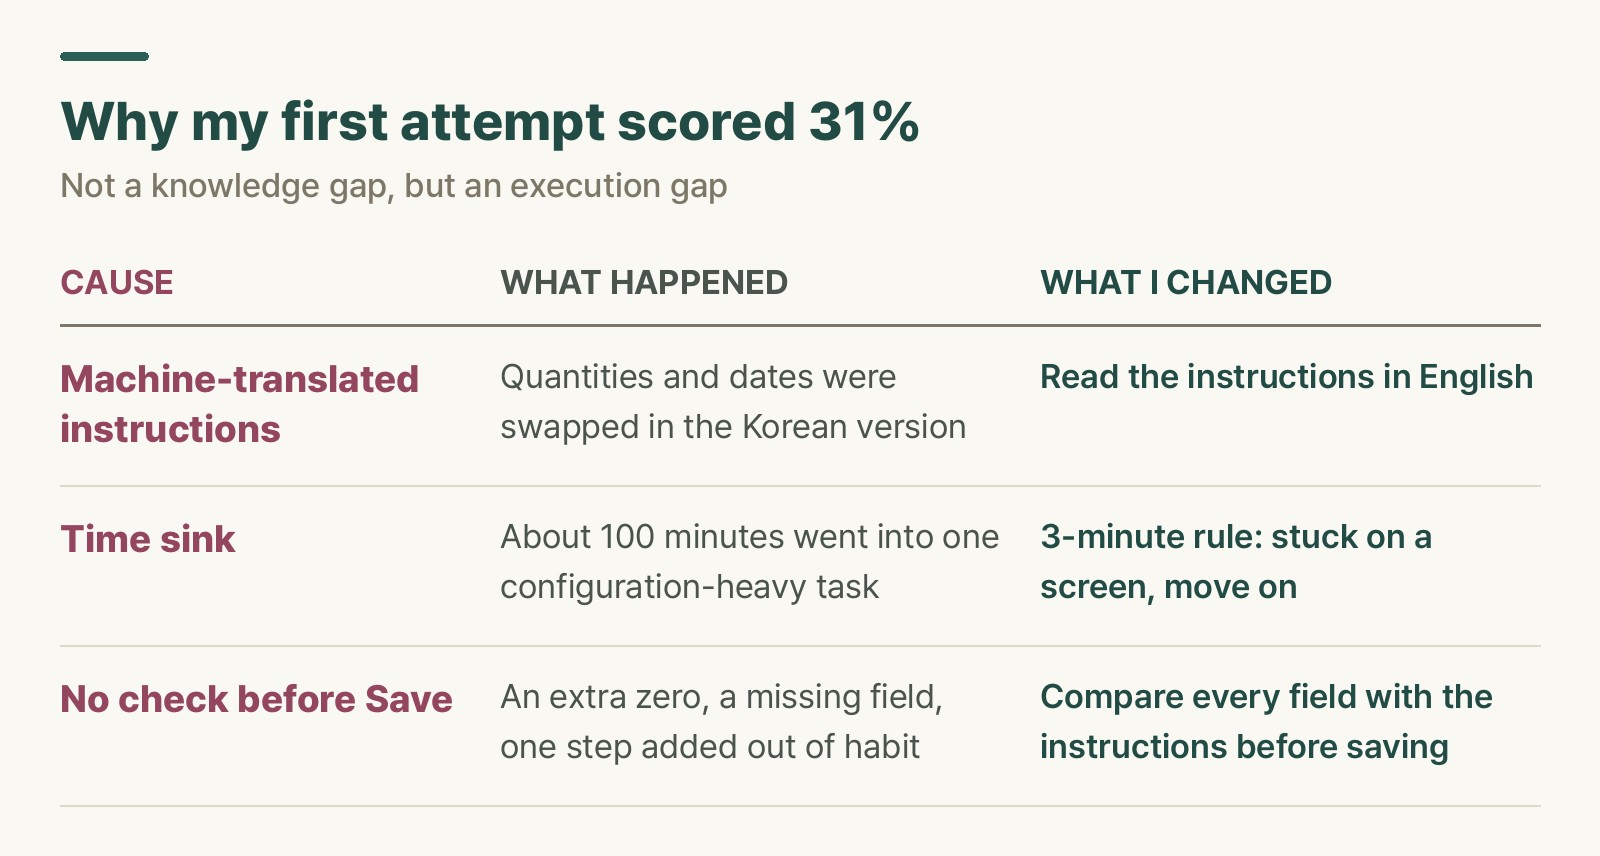
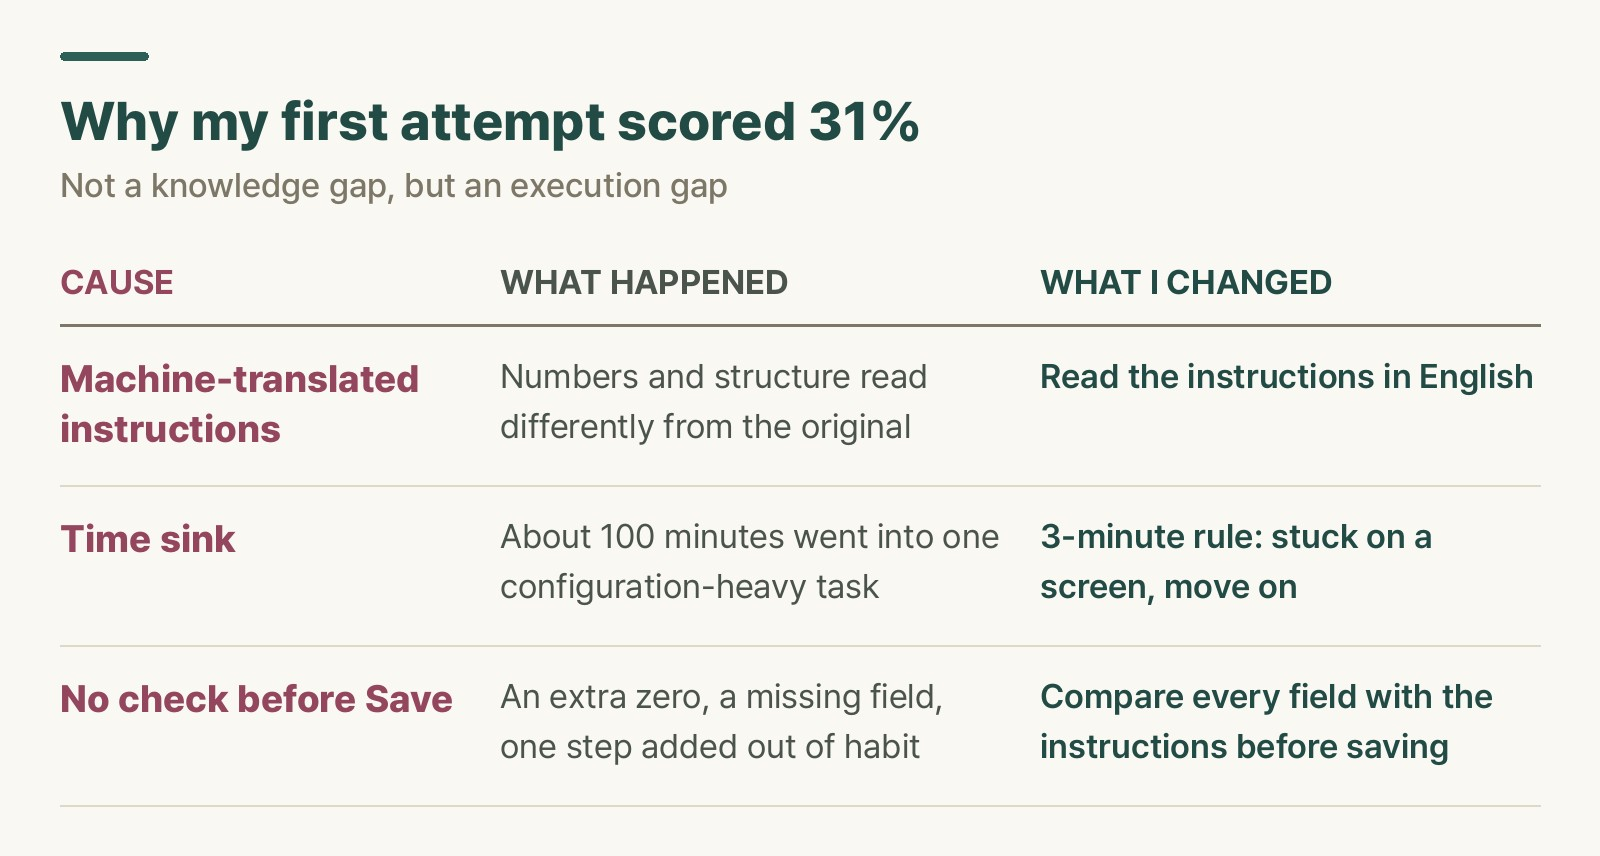
2·3편: 시험 문항 노출로 읽힐 표현 일반화, 응시자 동의서 안내 추가, 작업 메모
Claude-Session: https://claude.ai/code/session_013sML9pAEqnrmzvpCSp2NBT

Changed region(s): [[0.3125, 0.486, 0.625, 0.5164], [0.3125, 0.4252, 0.5938, 0.4556]]

diff --git a/scripts/diagrams/gen_mm_c_ts452.py b/scripts/diagrams/gen_mm_c_ts452.py
@@ -60,7 +60,7 @@ T_2_01 = {
         "sub": "몰라서가 아니라, 해내지 못해서",
         "head": ("원인", "무슨 일이 있었나", "그 뒤로 바꾼 것"),
         "rows": [
-            ("기계번역 지침", "한국어 지침에서 수량과 날짜가 뒤바뀌어 있었다", "지침은 영어로 읽는다"),
+            ("기계번역 지침", "번역된 숫자와 구성이 원문과 다르게 읽혔다", "지침은 영어로 읽는다"),
             ("한 과제에 쏠린 시간", "설정 비중이 큰 과제 하나에 약 100분을 썼다", "3분 룰: 한 화면에서 3분 막히면 넘어간다"),
             ("저장 전 대조 없음", "0 하나 더, 필수 필드 누락, 습관대로 한 단계 추가", "Save 전에 지침과 필드를 1:1로 대조한다"),
         ],
@@ -71,7 +71,7 @@ T_2_01 = {
         "head": ("Cause", "What happened", "What I changed"),
         "rows": [
             ("Machine-translated instructions",
-             "Quantities and dates were swapped in the Korean version",
+             "Numbers and structure read differently from the original",
              "Read the instructions in English"),
             ("Time sink",
              "About 100 minutes went into one configuration-heavy task",

diff --git a/src/content/blog/en/sap-mm-c-ts452-certification-2.md b/src/content/blog/en/sap-mm-c-ts452-certification-2.md
@@ -18,7 +18,7 @@ On September 14, 2026, I took my first **SAP MM certification, C_TS452** exam. T
 In [SAP certification exams](/en/blog/sap-exam-format) I once wrote that "if your practical skills are solid, it's realistically a 40-minute-to-1-hour exam." At least for a module I was learning for the first time, that was not true. Even on my third attempt, after plenty of practice, simply working through the tasks without getting stuck took 80–90 minutes, and with verification before submitting it took about 2 hours. This post is also that correction.
 
 > **Three-line summary**
-> - The first cause was the machine-translated Korean instructions. Sentences with swapped quantities and dates turned straight into zero points.
+> - The first cause was the machine-translated Korean instructions. Places where numbers and structure read differently from the original turned straight into zero points.
 > - I spent about 100 minutes on one configuration-heavy task and never touched the last tasks.
 > - The biggest cause was not checking against the instructions before saving. I lost more points on things I knew than on things I didn't.
 
@@ -28,10 +28,7 @@ In [SAP certification exams](/en/blog/sap-exam-format) I once wrote that "if you
 
 When the exam starts, you can choose the language of the task instructions. I naturally chose Korean, and that was my first mistake.
 
-The Korean instructions are machine-translated. Most of it is readable, but **some of the numbers and structure that the grading depends on were distorted**. When I later compared them with the English version, I found differences like these.
-
-- A sentence where the quantity and the date were swapped in translation
-- A sentence where a setup with "two items" in the original read like "one item" in Korean
+The Korean instructions are machine-translated. Most of it is readable, but **some of the numbers and structure that the grading depends on read differently from the original**. Reordered sentences made it unclear which value went where, or made a setup read differently from what the original meant. Reading the English original would have avoided that confusion.
 
 As I explained in [Part 1](/en/blog/sap-mm-c-ts452-certification-1), a SyBA exam checks whether the saved values match the instructions exactly. If the translation is wrong, you score zero even when you follow it. And because later tasks use the output of earlier ones, one wrong first step brings down everything after it. I lost an entire group of tasks this way.
 
@@ -48,10 +45,10 @@ In my first attempt I spent **about 100 minutes** on one configuration-heavy gro
 This was the most painful cause. Chased by the clock, I filled in a screen, pressed Save, and moved straight on. The results looked like this.
 
 - One extra zero typed into an amount field
-- A required field left out, creating an item of the wrong type
+- A required field left out, saving a result different from what was intended
 - One extra step, not in the instructions, done out of work habit, so a later task did not behave as intended
 
-The last one stuck with me. At work there are settings that make life easier, but the exam had built its later tasks on the assumption that those settings were not there. It is like adding a seasoning that is not in the recipe because you think the customer will like it. **It is a trap that people who know the system well fall into most easily.**
+The last one stuck with me. At work there are habits that make life easier, but the instructions assumed the process would run without that step. It is like adding a seasoning that is not in the recipe because you think the customer will like it. **It is a trap that people who know the system well fall into most easily.**
 
 ## The first attempt in numbers
 
@@ -65,14 +62,16 @@ I lost more on **things I knew but got wrong** than on things I did not know.
 
 The failure stung, but it clearly gave me something.
 
-1. **A feel for the real exam**: which areas appear in what proportion, and which screens eat up time.
-2. **The need for English**: from then on, I switched all my study material to the English courses and English instructions.
+1. **A feel for the hands-on format**: how the screens flow, how much time pressure there is, and how unforgiving it is when earlier tasks feed later ones.
+2. **The need for English**: from then on, I switched all my study to the English course material.
 3. **The need for a procedure**: one step, "check before you save," mattered more than piling up more knowledge.
 
 Here are the three causes, and what I changed afterward, on one page.
 
 ![Table of the three causes of my first SAP MM certification C_TS452 failure: machine-translated instructions fixed by reading in English, time sunk into one task fixed by a 3-minute rule, and no check before saving fixed by comparing every field before Save](/images/sap-mm-c-ts452-certification-2-01.jpg)
 *Figure 1. The causes of my 31% first attempt and what I changed afterward*
+
+> In line with the candidate agreement, this series does not cover exam questions or answer values. What I describe here are only my own mistakes and how I prepared.
 
 ## Rabbit's Takeaway
 

diff --git a/drafts/sap-mm-c-ts452/ko/sap-mm-c-ts452-certification-3.md b/drafts/sap-mm-c-ts452/ko/sap-mm-c-ts452-certification-3.md
@@ -29,19 +29,19 @@ tags: ["SAP학습자료", "SAP자격증", "SAPMM", "C_TS452", "SAP공부법"]
 - **개념 이해는 한국어로**, 하지만
 - **화면 조작, 필드명, 지침 해석은 영어로**
 
-시험 지침의 문장을 교재 연습문제와 나란히 놓아보면 표현이 거의 같은 경우가 많습니다. 반대로 **교재와 미묘하게 다른 부분(수량, 저장위치, 품목 구성)이 바로 채점 포인트**입니다. 교재대로 손에 익힌 습관값을 그대로 넣으면 틀립니다.
+교재 연습 과제를 영어로 반복하면 두 가지가 함께 길러집니다. 화면에 보이는 필드명과 지침의 단어를 바로 연결하는 눈, 그리고 **지침을 한 단어씩 끝까지 읽는 습관**입니다. 실기 시험에서는 손에 익은 값이 아니라 지금 받은 지침에 적힌 값을 넣어야 하는데, 이 습관이 없으면 익숙한 값을 무심코 입력하게 됩니다.
 
 ## C_TS452 연습을 3단계로 설계했다
 
 | 단계 | 목적 | 방식 | 통과 기준 |
 |---|---|---|---|
-| R1 화면 익히기 | 모든 유형을 한 번씩 완주 | 시간 제한 없이, 모르는 건 끝까지 파고들기 | 전부 완료 + 막힌 화면 목록 |
+| R1 화면 익히기 | 교재의 모든 연습 과제를 한 번씩 완주 | 시간 제한 없이, 모르는 건 끝까지 파고들기 | 전부 완료 + 막힌 화면 목록 |
 | R2 시간 맞추기 | 영역별 목표 시간 지키기 | 3분 룰, 저장 직전 대조 강제 | 목표 시간 이내 완주 |
-| R3 실전 리허설 | 시험 당일 절차 그대로 | 3시간 연속, 남는 시간은 전수 검증 | 시간 내 완주 + 검증 |
+| R3 실전 리허설 | 연습 과제를 3시간 분량으로 묶어 시험처럼 | 3시간 연속, 남는 시간은 전수 검증 | 시간 내 완주 + 검증 |
 
 *표 1. 연습 3단계 설계*
 
-R2에서 처음 전체 시간을 재봤을 때 **목표보다 17분 초과**했습니다. 영역별로 쪼개보니 초과분 대부분이 설정 비중이 큰 한 영역에서 나왔습니다. 그 영역만 따로 반복했고, R3에서는 **3시간 분량을 약 100분**에 끝낼 수 있게 됐습니다. 남는 시간은 전부 검증에 썼습니다.
+R2에서 처음 전체 시간을 재봤을 때 **목표보다 17분 초과**했습니다. 영역별로 쪼개보니 초과분 대부분이 제가 가장 약한 설정(Customizing) 작업에서 나왔습니다. 실무에서 직접 손댈 일이 적던 부분이라, 그 영역의 교재 과제만 따로 반복했습니다. R3에서는 연습 과제로 묶은 **3시간 분량을 약 100분**에 끝낼 수 있게 됐고, 남는 시간은 전부 검증에 썼습니다.
 
 ![SAP MM 자격증 C_TS452 1차 시험, R3 리허설, 3차 시험의 3시간 배분을 비교한 막대 그래프. 1차는 한 과제에 100분을 써 마지막 과제를 못 했고, R3는 과제 100분 뒤 남은 시간을 검증에 썼으며, 3차는 과제 약 85분과 검증 약 35분으로 2시간 만에 제출했다](/images/sap-mm-c-ts452-certification-3-01.jpg)
 *그림 1. 1차 시험, 연습 리허설, 3차 시험의 시간 배분 (분, 대략치)*
@@ -76,6 +76,8 @@ Learning Hub의 연습 시스템은 전 세계 학습자가 함께 쓰는 서버
 SyBA 시험은 인터넷 검색이 가능한, 오픈북에 가까운 성격이었습니다. 꾸준히 연습한 덕에 크게 막힌 곳은 없었지만, 메뉴 경로가 헷갈릴 때는 공개된 자료를 찾아보기도 했습니다.
 
 다만 AI 도구나 화면 캡처는 이야기가 다릅니다. Reddit 같은 커뮤니티에서도 허용 여부에 대한 의견이 갈리고, 화면 캡처가 감지된다는 이야기도 있습니다. 이 시험은 "스스로 시스템을 다룰 수 있는가"를 확인하는 자리인 만큼, **AI의 도움을 받는 건 사실상 허용되지 않는다고 보는 게 안전**합니다. 응시 전에 응시자 동의서와 SAP 공식 안내에서 허용 범위를 직접 확인하세요. 시험장에서 끝까지 기댈 수 있는 건, 연습으로 손에 익힌 절차뿐입니다.
+
+> 이 연재는 응시자 동의서에 따라 시험 문항 내용과 정답 값은 다루지 않습니다. 연습은 모두 Learning Hub 교재의 연습 과제로 했고, 여기 적은 건 준비 방법과 경험뿐입니다.
 
 ## Rabbit의 한 끗
 

diff --git a/drafts/sap-mm-c-ts452/NOTES.md b/drafts/sap-mm-c-ts452/NOTES.md
@@ -1,0 +1,27 @@
+# SAP MM C_TS452 연재 작업 메모
+
+## 발행 계획
+| 편 | 슬러그 | 발행일 | 상태 |
+|---|---|---|---|
+| 1 | sap-mm-c-ts452-certification-1 | 2026-10-11 | 게시 완료 |
+| 2 | sap-mm-c-ts452-certification-2 | 2026-10-14 | PR 예약 게시 |
+| 3 | sap-mm-c-ts452-certification-3 | 2026-10-18 | 한글 초안(drafts/ko) |
+| 4 | sap-mm-c-ts452-certification-4 | 2026-10-21 | 원본만 |
+| 5 | sap-mm-c-ts452-certification-5 | 2026-10-25 | 원본만 |
+| 0 | sap-mm-c-ts452-certification (총정리) | 2026-10-28 | 원본만, 맨 마지막 |
+
+## 운영자 결정 사항
+- 제목은 글마다 수정하면서 운영자가 정한다.
+- 도식은 한글판(기본) + 영문판(_en)을 함께 만든다. 생성: `python3 scripts/diagrams/gen_mm_c_ts452.py`
+- 시리즈 다음 편 연결은 관련글 주석의 `deepens=`로 한다(더 읽어보기 최대 3개, prerequisite→deepens→related 순).
+- **시험 문항 노출 금지**: "연습 과제 = 시험 문제", "재응시 때 같은 문제" 로 읽히는 표현을 쓰지 않는다.
+  연습은 Learning Hub 교재 연습 과제 기준으로 서술하고, 문항에 가까운 구체 예시는 일반화한다.
+- 시험 중 AI 사용 경험은 쓰지 않는다. "AI는 사실상 허용되지 않는다고 보는 게 안전, 공식 규정 확인" 톤.
+- Credly 배지·수령일은 빼고 점수로 대체. Stay Certified 기한은 "2027년 10월"까지만.
+- 실제 소요 시간(3차): 과제 처리 80–90분, 검증 포함 약 2시간 만에 제출, 약 1시간 남음.
+
+## 남은 할 일
+- 5편 원본의 "과제 처리 약 2시간 반, 마지막 25분 검증"을 위 실제 소요 시간으로 고친다.
+- 5편 원본의 "버전이 같아도 구성이 다를 수 있으니"는 "응시할 때마다 문제가 다를 수 있으니"로 바꾼다.
+- 4편: 지원 케이스는 learning.sap.com/helpcenter → Create a case. 에러 화면 캡처 + AI로 문안 작성 후 확인해 접수, 생각보다 빨리 처리됨.
+- 각 편 게시 시: 앞 편 관련글 주석에 deepens 추가 → sync-relations 실행 → 영문 Read more 수동 갱신.
